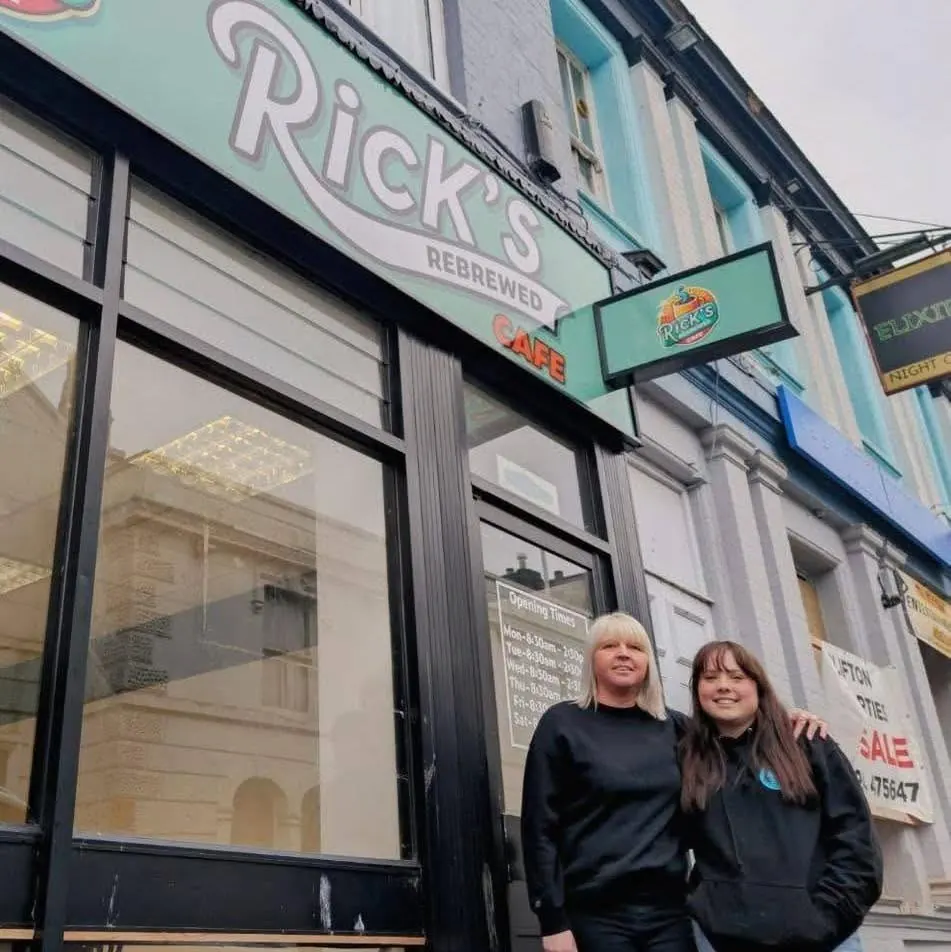
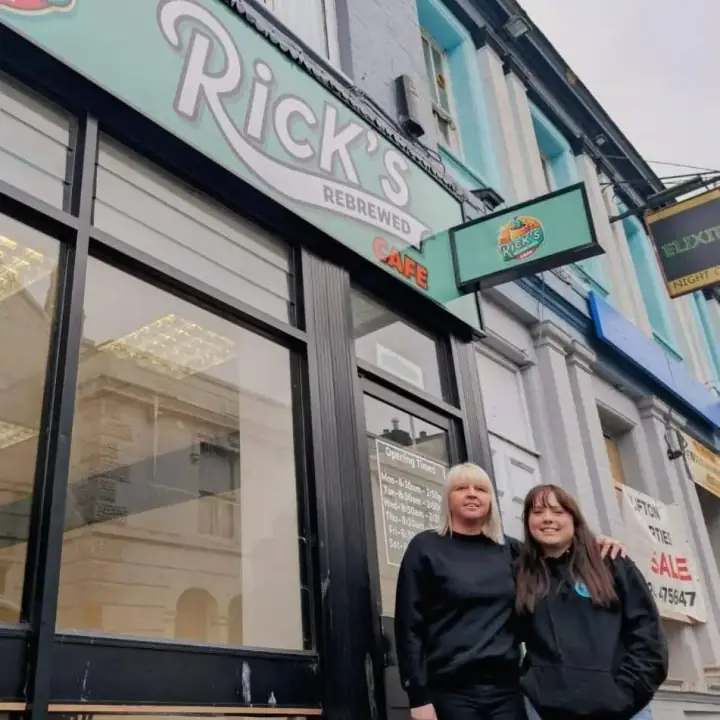
Trim image weight and remove forced header reflow.

diff --git a/script.js b/script.js
@@ -12,13 +12,22 @@
     year.textContent = String(new Date().getFullYear());
   }
 
+  let headerTicking = false;
   const setHeaderState = () => {
     if (!header) return;
     header.classList.toggle("is-scrolled", window.scrollY > 24);
+    headerTicking = false;
   };
 
-  setHeaderState();
-  window.addEventListener("scroll", setHeaderState, { passive: true });
+  window.addEventListener(
+    "scroll",
+    () => {
+      if (headerTicking) return;
+      headerTicking = true;
+      window.requestAnimationFrame(setHeaderState);
+    },
+    { passive: true }
+  );
 
   if (toggle && nav && header) {
     const closeNav = () => {

diff --git a/index.html b/index.html
@@ -375,8 +375,8 @@
               <img
                 src="assets/photo-about.webp"
                 alt="Rick's Rebrewed Cafe team outside the cafe on West St Mary's Gate, Grimsby"
-                width="1024"
-                height="1024"
+                width="720"
+                height="720"
                 loading="lazy"
                 decoding="async"
               />
